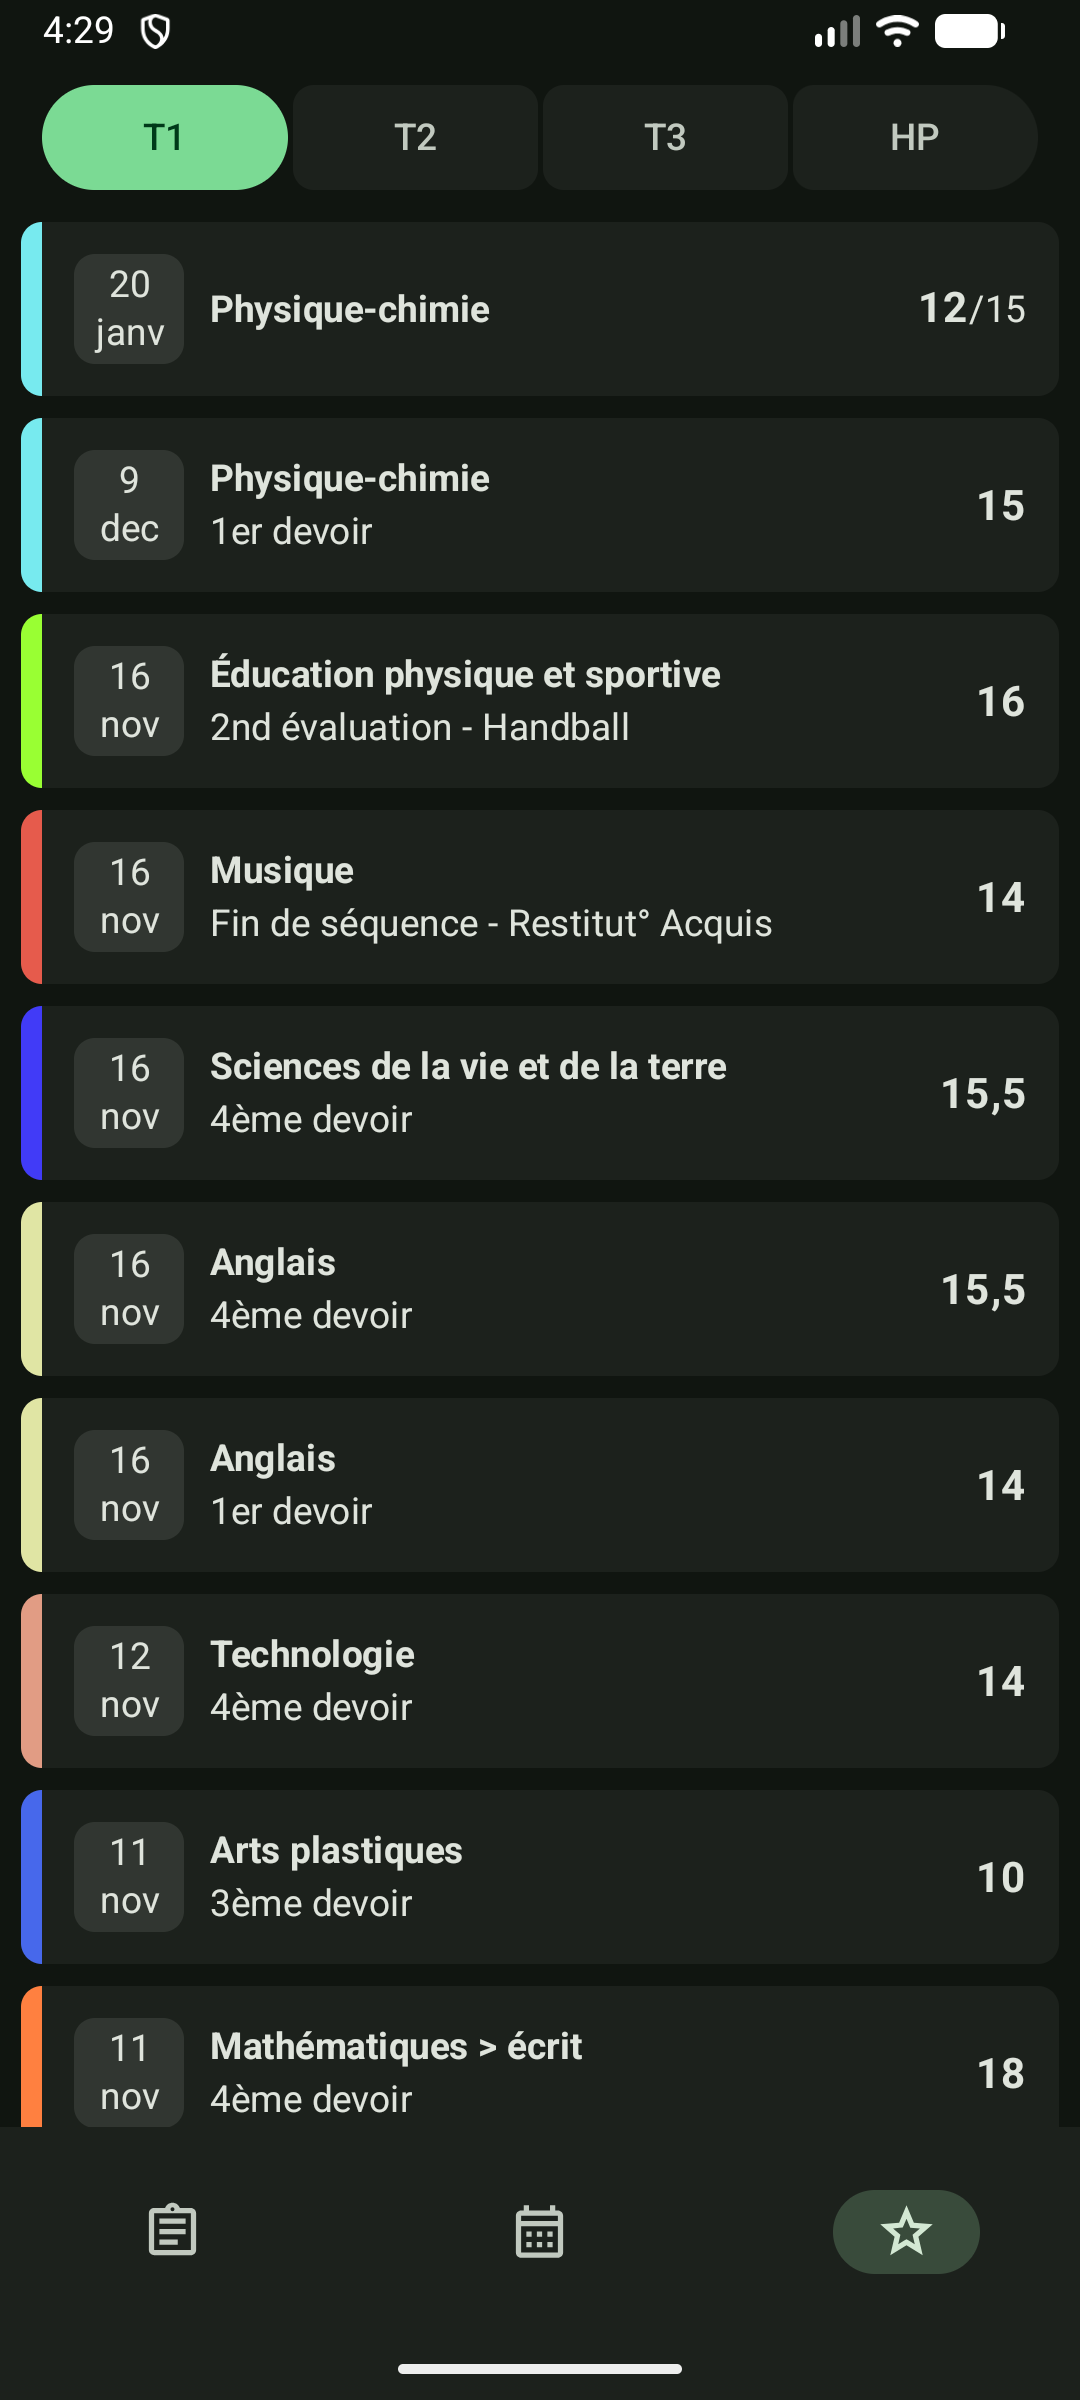
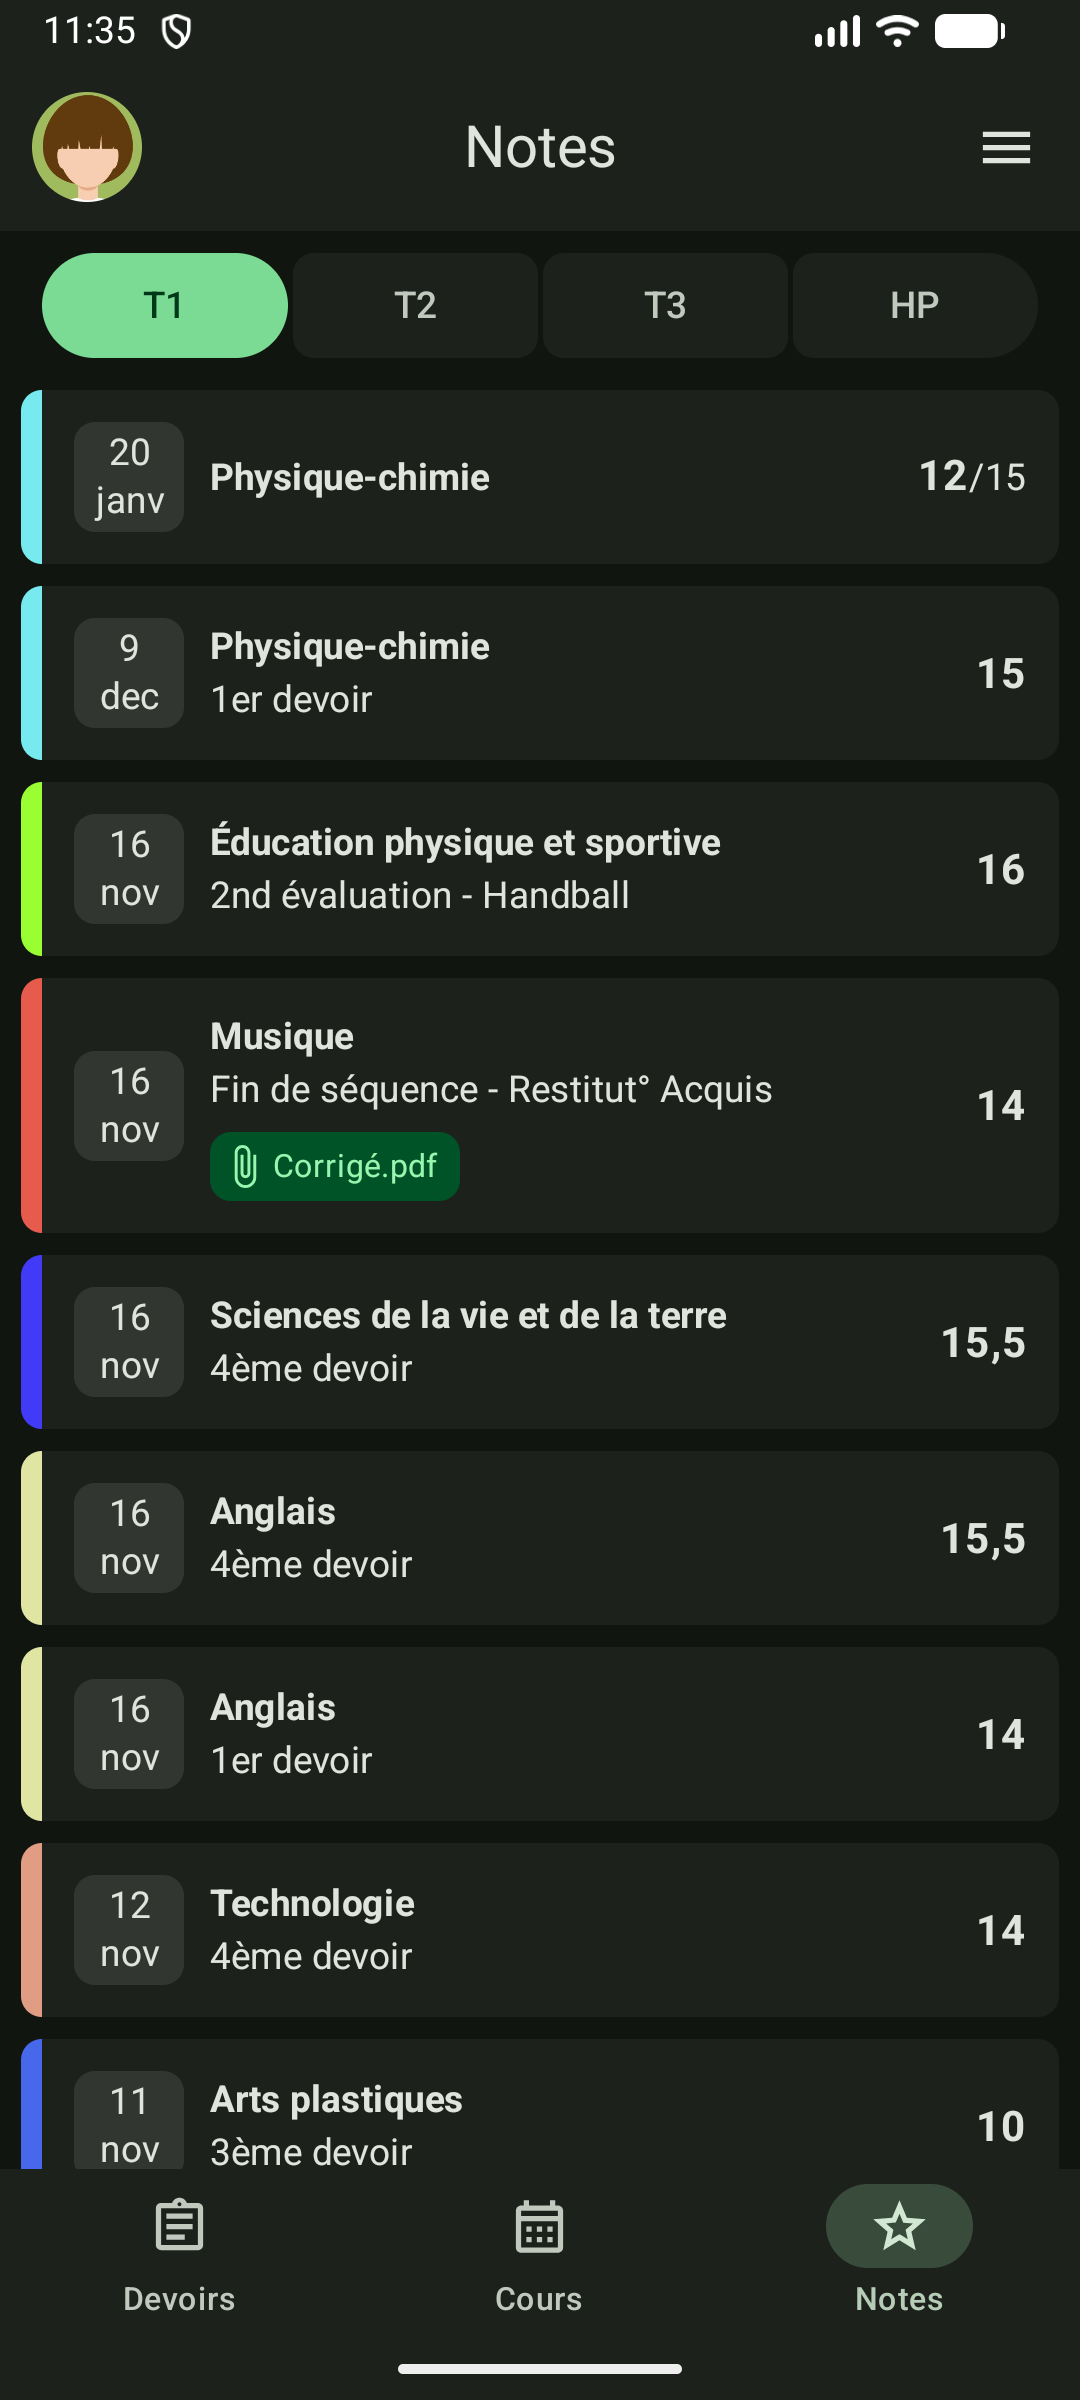
Prepare for open-sourcing

diff --git a/README_FR.md b/README_FR.md
@@ -1,0 +1,55 @@
+# Pralinote
+
+> Ce projet n'est pas affilié avec PRONOTE ou Index Education
+
+Une application native Android non officielle qui interagit avec le service scolaire PRONOTE.
+Pour l'instant, seuls les comptes élèves fonctionnent.
+
+Les différences par rapport à l'appli officielle et Papillon:
+- une interface moderne Android
+- s'exécute sur du code natif beaucoup plus performant
+- optimisée pour PRONOTE, fait le moins de requêtes possible
+
+## Captures d'écran
+
+| Comptes |             Devoirs             |              Emploi du temps              | Notes |
+|:---:|:--------------------------------:|:-----------------------------------:|:---:|
+| ![Comptes](assets/Profiles.png) | ![Devoirs](assets/Homework.png) | ![EDT](assets/Timetable.png) | ![Notes](assets/Grades.png) |
+
+## Fonctionnalités
+
+- Plusieurs comptes, connexion avec un mot de passe
+- Devoirs (cliquez dessus pour marquer un devoir comme fait/non fait)
+- Emploi du temps avec agenda intégré
+- Notes
+
+Arrive bientôt:
+- Connexion avec un QR code
+- Connexion automatique
+- Moyenne des notes et graphiques
+- Actualités et sondages
+
+## Contribuer
+
+Cette application utilise UniFFI avec une version modifiée de [pronote-rs](https://github.com/FossKay/pronote-rs).
+Pour compiler l'appli, vous devez avoir installé `cargo` (les outils de développement du language Rust)
+et un JDK (Java Development Kit). L'utilisation d'[Android Studio](https://developer.android.com/studio)
+est recommandée.
+
+Par défaut, quand on compile l'application en mode debug, elle utilise des données factices et ne
+doit faire aucune connexion internet. Pour modifier ce comportement, définissez `NO_MOCK` sur vrai
+dans `.../model/AppClient.kt`.
+
+Pour mettre à jour la version de `pronote-rs` utilisée, définissez la variable d'environnement
+`PRONOTE_RS` à la location du dossier contenant le projet et lancez le script `app/pronote-rs/update`
+(sur Linux). De temps en temps, des changements manuels à `p_client.rs` vont être nécessaires.
+
+Pour compiler une version debug de l'application, exécutez `./gradlew assembleDebug`.
+Pour l'instant, Linux est nécessaire pour compiler Pralinote (si vous voulez contribuez au projet,
+vous pouvez rajouter `app/src/pronote-rs/build.bat` et modifier `app/build.gradle.kts`)
+
+*A propos de l'IA*: l'usage de l'IA est autorisé MAIS tout le code doit être écrit à la main et compréhensible.
+
+## Note sur PRONOTE
+Index Education [a indiqué](https://www.index-education.com/fr/article-1760-recommandations-relatives-a-l-application-papillon.php) que tant qu'une application PRONOTE non officielle utilise un mot de passe renseigné volontairement par l'utilisateur, et qu'elle n'a aucune forme de monétisation, ce n'est pas interdit.
+> Cette pratique n'est pas illégale en soi, car justifiée par le fait que l'utilisateur renseigne volontairement ses informations de connexion et aussi par le fait que \[l'application (Papillon)] n'a pas de finalité commerciale.

diff --git a/README.md b/README.md
@@ -2,6 +2,8 @@
 
 > This project is not affiliated with PRONOTE nor Index Education
 
+[Lire ce README en français](README_FR.md)
+
 An unofficial native Android app that interacts with the french PRONOTE school website.
 Only student profiles are supported for now.
 
@@ -14,7 +16,7 @@ Differences with the official mobile app and Papillon:
 
 | Profile List |             Homework             |              Timetable              | Grades |
 |:---:|:--------------------------------:|:-----------------------------------:|:---:|
-| ![Profile List](assets/Profiles.png) | ![Homework](assets/Homework.png) | ![Timetable](assets/Timetable2.png) | ![Grades](assets/Grades.png) |
+| ![Profile List](assets/Profiles.png) | ![Homework](assets/Homework.png) | ![Timetable](assets/Timetable.png) | ![Grades](assets/Grades.png) |
 
 ## Features
 
@@ -36,10 +38,18 @@ To build the app, you must have installed `cargo` (the rust toolchain) and a JDK
 [Android Studio](https://developer.android.com/studio) is recommended.
 
 By default, on debug builds, the app uses sample data and shouldn't make any internet connections.
-In `.../model/AppClient.kt`, toggle `NO_MOCK` on to modify this behaviour.
+In `.../model/AppClient.kt`, toggle `NO_MOCK` on to modify this behavior.
 
 To bump the `pronote-rs` version, configure the `PRONOTE_RS` environment variable and set it
-to the root folder of the project, then run `app/pronote-rs/update`.
+to the root folder of the project, then run `app/pronote-rs/update` (Linux-only).
 Sometimes, manual changes to `p_client.rs` will be needed.
 
 Run `./gradlew assembleDebug` to build a debug version of the app.
+For now, only Linux is supported for building Pralinote
+(if you want to contribute, feel free to add `app/src/pronote-rs/build.bat` and adapt `app/build.gradle.kts`).
+
+*A note on AI*: AI use is allowed but all the code must be handwritten and understandable.
+
+## Legal notice
+Index Education [indicated](https://www.index-education.com/fr/article-1760-recommandations-relatives-a-l-application-papillon.php) that as long as an unofficial app uses credentials that the user provided voluntarily and isn't commercial, it isn't prohibited.
+> Cette pratique n'est pas illégale en soi, car justifiée par le fait que l'utilisateur renseigne volontairement ses informations de connexion et aussi par le fait que \[l'application (Papillon)] n'a pas de finalité commerciale.
